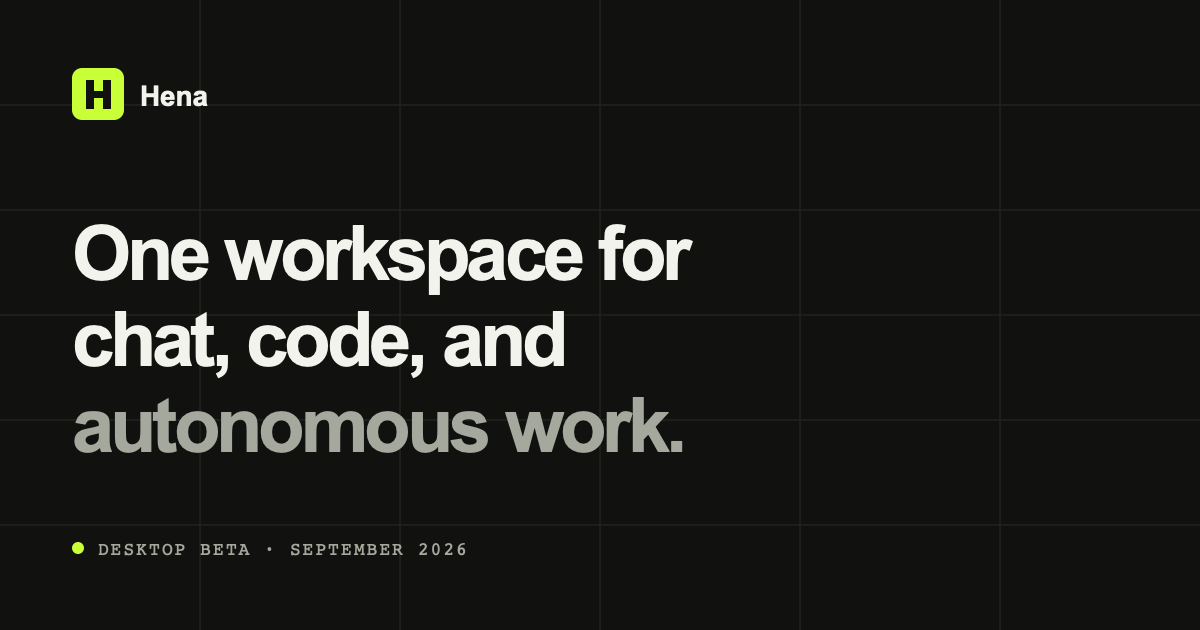
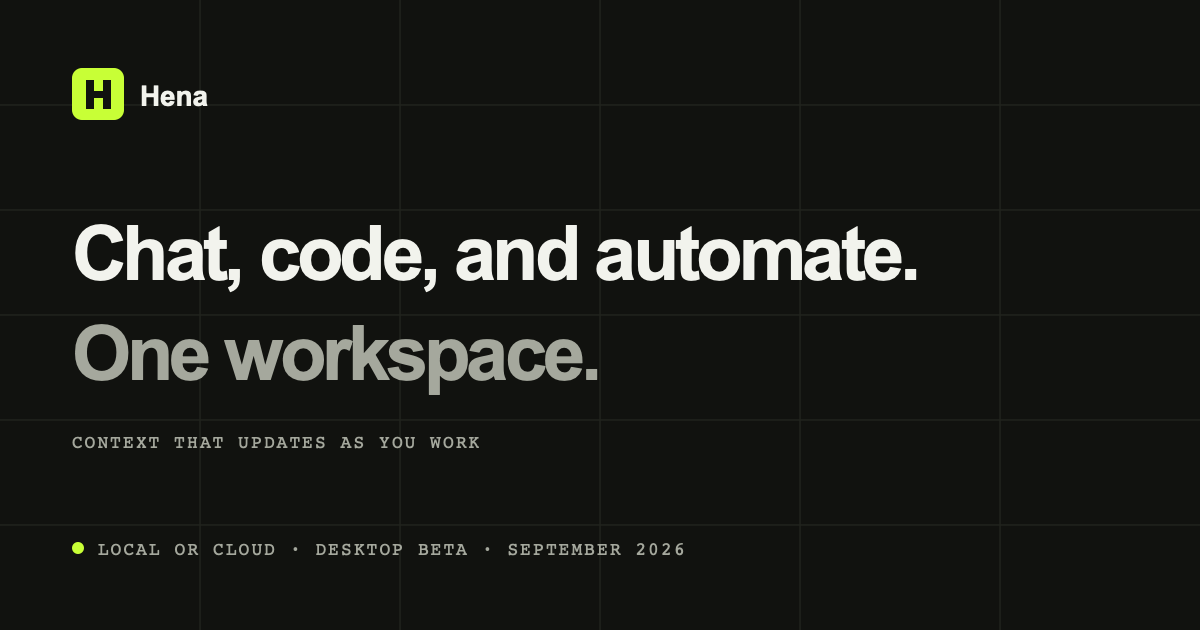
chore(meta): refresh site and social metadata

diff --git a/src/data/site.ts b/src/data/site.ts
@@ -1,9 +1,9 @@
 export const site = {
   url: "https://hena.dev",
   name: "Hena",
-  title: "Hena — One workspace for chat, code, and autonomous work",
+  title: "Hena — Chat, code, and automate in one workspace",
   description:
-    "A local, open-source AI workspace that routes every task to the right model. Desktop beta arrives September 2026.",
+    "An open-source AI workspace for chat, code, and automated work. Hena keeps project context up to date across models, sessions, and local or cloud execution.",
   email: "hi@hena.dev",
   launch: "September 2026",
   company: "Ambivalent Co.",
